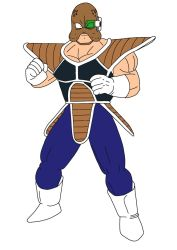
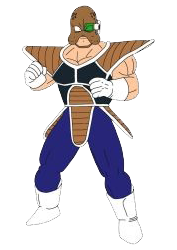
Cambios finales hasta nuevo aviso
Se borró el fondo blanco de los enemigos, se agregó la imagen de fondo, se corrigió un poco del código

Changed region(s): [[0.113, 0.0, 0.8757, 0.98], [0.3955, 0.616, 0.4237, 0.644], [0.3672, 0.644, 0.3955, 0.672]]

diff --git a/js/entidades.js b/js/entidades.js
@@ -115,16 +115,21 @@ Actor = function(tipo2,id2,nombre2,x2,y2,velx2,vely2,ancho2,alto2,imagen2,vel_di
 crearEnemigoAleatorio = function(){
   var id = Math.random(); // NO ME CONVENCE, SI SALE UN NÚMERO ALEATORIO QUE YA FUE INGRESADO, SE SOBREESCRIBIRÁ EL ENEMIGO
   var nombre = id;
+
   var x;
-  do{ // REVISAR ESTO, SE ESTÁN GENERANDO ENEMIGOS FUERA DEL LIENZO
+  do{
     x = Math.random() * ancho_lienzo; //Math.random retorna un número entre 0 y 1
   }while( (x < jugador.x + jugador.ancho*2) && (x > jugador.x - jugador.ancho*2) ); // El enemigo no puede ser creado cerca del jugador
+
   var y;
   do{
-    y = Math.random() * ancho_lienzo;
+    y = Math.random() * alto_lienzo;
   }while( (y < jugador.y + jugador.alto*2) && (y > jugador.y - jugador.alto*2) );
-  var alto = 20 + Math.random() * 30; // Alto entre 20 y 50
-  var ancho = 20 + Math.random() * 30; // Ancho entre 20 y 50
+
+  //var alto = 20 + Math.random() * 30; // Alto entre 20 y 50
+  //var ancho = 20 + Math.random() * 30; // Ancho entre 20 y 50
+  var alto = 70;
+  var ancho = 50;
   var velx = 5 + Math.random() * 5; // Velocidad entre 5 y 10
   var vely = 5 + Math.random() * 5; // Velocidad entre 5 y 10
   var color; // Parte por defecto como un rectángulo blanco (invisible)
@@ -134,14 +139,23 @@ crearEnemigoAleatorio = function(){
     // Se genera un color aleatorio. No puede repetirse el del jugador, el de las mejoras o el de las balas. Tampoco puede ser blanco (invisible)
   }while(color == '#BF00FF' || color == '#000000' || color == '#FF8000' || color == '#FFFFFF' || color == color_jugador);
   */
-  var num_enemigo = Math.random();
   var imagen;
-  if(num_enemigo < 0.3){
-    imagen = Img.enemigo1;
-  }else if(num_enemigo > 0.6){
-    imagen = Img.enemigo3;
-  }else{
-    imagen = Img.enemigo2;
+  var num_enemigo = 1 + Math.random()*3; // Se genera un número aleatorio entre 1 y 4
+  num_enemigo = Math.round(num_enemigo); // Lo dejamos como número entero
+  // Dependiendo del número, se elige una imagen
+  switch (num_enemigo) {
+    case 1:
+      imagen = Img.enemigo1;
+      break;
+    case 2:
+      imagen = Img.enemigo2;
+      break;
+    case 3:
+      imagen = Img.enemigo3;
+      break;
+    default:
+      imagen = Img.enemigo4;
+      break;
   }
 
   var angulo_disparo = 0;
@@ -172,7 +186,7 @@ crearMejoraAleatoria = function(){
   var color;
   var imagen;
   var categoria;
-  if(Math.random() < 0.7){ // 70% de probabilidad de que aumente el puntaje
+  if(Math.random() < 0.8){ // 80% de probabilidad de que aumente el puntaje
     //color = '#FF8000'; // Las mejoras de puntaje son de color naranjo
     imagen = Img.mejora_puntos;
     categoria = 'puntos';
@@ -251,9 +265,14 @@ crearEntidad = function(tipo2,id2,nombre2,x2,y2,velx2,vely2,ancho2,alto2,imagen2
     ctx.save(); // Guarda la información del lienzo (color, fuente, etc.)
     var origen_x = self.x - self.ancho/2; // El origen quedaría en la esquina superior izquierda, por eso se "mueve" hacia la derecha hasta llegar al centro (la mitad de su ancho)
     var origen_y = self.y - self.alto/2; // Lo mismo, se mueve el origen hacia abajo para llegar al centro (mitad del alto)
-    ctx.drawImage(self.imagen,origen_x,origen_y,self.ancho,self.alto);
 
-    //ctx.drawImage(self.imagen,0,0,self.imagen.width,self.imagen.height,origen_x,origen_y,self.width,self.height);
+    ctx.drawImage(self.imagen,0,0,self.imagen.width,self.imagen.height,origen_x,origen_y,self.ancho,self.alto);
+    /* Significado:
+    ctx.drawImage(IMAGEN, DÓNDE EMPIEZA LA IMAGEN (ARCHIVO) EN X, DÓNDE EMPIEZA LA IMAGEN (ARCHIVO) EN Y,
+    HASTA DÓNDE LLEGA LA IMAGEN (ARCHIVO) EN X, HASTA DÓNDE LLEGA LA IMAGEN (ARCHIVO) EN Y,
+    ORIGEN EN X DE LA IMAGEN A DIBUJAR DENTRO DEL JUEGO, ORIGEN EN Y DE LA IMAGEN A DIBUJAR DENTRO DEL JUEGO,
+    ANCHO DE LA IMAGEN DENTRO DEL JUEGO, ALTO DE LA IMAGEN DENTRO DEL JUEGO);
+    */
 
     /*
     ctx.fillStyle = self.color; // Cambio el color por un momento para dibujar al jugador

diff --git a/juego.html b/juego.html
@@ -1,10 +1,13 @@
-<canvas id="myCanvas" width="700" height="500" style="border: 1px solid #000000"></canvas>
+<canvas id="myCanvas" width="1300" height="500" style="border: 1px solid #000000"></canvas>
 
 <!-- Importamos el archivo con las funciones dedicadas a entidades -->
 <script src="js/entidades.js"></script>
 
 <script>
 
+  /// FUNCIONES
+
+  // Retorna un color aleatorio
   getRandomColor = function(){
     var caracteres = '0123456789ABCDEF';
     var color = '#';
@@ -14,12 +17,17 @@
     return color;
   }
 
+  // Inicializa las variables para un juego nuevo
   startNewGame = function(){
     jugador.salud = salud_jugador;
     jugador.vel_disparo = 1;
 
     tiempoInicio = Date.now();
     frameCount = 0;
+    puntuacion_previa = score;
+    if(score > high_score){
+      high_score = score;
+    }
     score = 0;
     cantidad_mejoras = 0;
     jugador.imagen = Img.jugador;
@@ -33,9 +41,14 @@
     }
   }
 
+  dibujarMapa = function(){
+    ctx.drawImage(Img.mapa,0,0,Img.mapa.width,Img.mapa.height,0,0,ancho_lienzo,alto_lienzo);
+  }
+
   // Limpia la pantalla y reposiciona los objetos
   actualizar = function(){
     ctx.clearRect(0,0,ancho_lienzo,alto_lienzo); // Primero borramos todo el lienzo
+    dibujarMapa();
 
     frameCount++;
     score++;
@@ -60,7 +73,7 @@
       }
 
       // Recorre cada enemigo
-      /*
+      /**/
       for(key2 in listaEnemigos){
         var enemy = listaEnemigos[key2];
         if(bala.areRectanglesColliding(enemy)){ // Si este enemigo choca con la Bala del primer for
@@ -69,7 +82,7 @@
           break; // No necesita verificar colisiones con más balas, pues este enemigo ya no existe
         }
       }
-      */
+      /**/
     }
 
     for(var key in listaMejoras){
@@ -98,7 +111,7 @@
       var enemy = listaEnemigos[key];
 
       enemy.actualizar(); // Movemos al enemigo
-      enemy.disparar();
+      //enemy.disparar(); // El enemigo dispara si es que su contador lo permite
 
       if(jugador.areRectanglesColliding(enemy)){ // Verifica si toca al jugador
         jugador.salud -= 1;
@@ -114,9 +127,23 @@
 
     jugador.actualizar(); // Movemos al jugador
 
-    // Dibujamos la vida  los puntos
-    ctx.fillText(jugador.salud + 'HP',0,30);
+    // Dibujamos datos relevantes
+    ctx.save();
+    ctx.fillStyle = 'orange';
+    ctx.fillText('Salud: ' + jugador.salud,0,30);
+    ctx.fillStyle = 'red';
+    ctx.fillText('¡ACABA CON LOS SOLDADOS DE FREEZER!',650,30);
+    ctx.restore();
     ctx.fillText('Puntos: ' + score,0,60);
+    ctx.fillText('Última puntuación: ' + puntuacion_previa,250,30);
+    ctx.fillText('Mejor Puntuación: ' + high_score,250,60);
+    ctx.fillText('Controles:',0,390);
+    ctx.fillText('Teclas W, A, S, D: Moverse.',0,420);
+    ctx.fillText('Click izquierdo: Disparar.',0,450);
+    ctx.fillText('Click derecho: Disparar especial.',0,480);
+    ctx.fillText('Mejoras:',500,390);
+    ctx.fillText('Esfera del dragón: +1.000 puntos.',500,420);
+    ctx.fillText('Cabello super saijayin: Disparo más rápido.',500,450);
     /*
     ctx.fillText('X=' + jugador.x,0,60);
     ctx.fillText('Y=' + jugador.y,0,90);
@@ -201,6 +228,8 @@
 
   var frameCount = 0;
   var score = 0;
+  var puntuacion_previa = 0;
+  var high_score = -1;
 
   var salud_jugador = 20; // La defino acá para después resetearla en startNewGame
   var color_jugador = '#00FF00'; // Lo declaro aquí, para que en crearEnemigoAleatorio no salgan enemigos del mismo color que el jugador
@@ -220,7 +249,7 @@
   Img.jugador2.src = "img/vegeta2.jpg";
   // Enemigos
   Img.enemigo1 = new Image();
-  Img.enemigo1.src = "img/enemigo1.jpg";
+  Img.enemigo1.src = "img/enemigo1.png";
   Img.enemigo2 = new Image();
   Img.enemigo2.src = "img/enemigo2.png";
   Img.enemigo3 = new Image();
